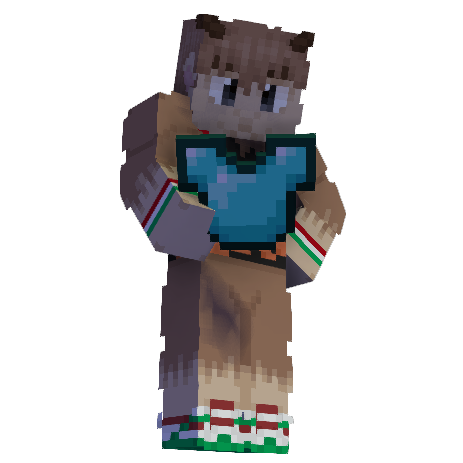
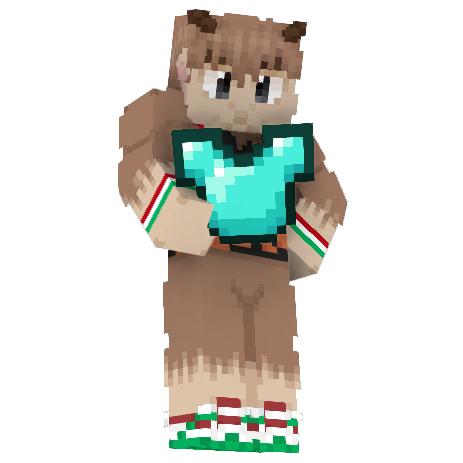
Update

Changed region(s): [[0.2419, 0.0, 0.7559, 0.9978]]

diff --git a/assets/css/style.css b/assets/css/style.css
@@ -70,7 +70,7 @@ header div.menu a.logo {
     display: flex;
     position: relative;
     align-items: center;
-    background-image: url(/assets/i/Youhuu_headerLogo_mc.png);
+    background-image: url(/assets/i/Youhuu_headerLogo_mc_noshadows.png);
     background-repeat: no-repeat;
     background-size: contain;
     width: 100px;
